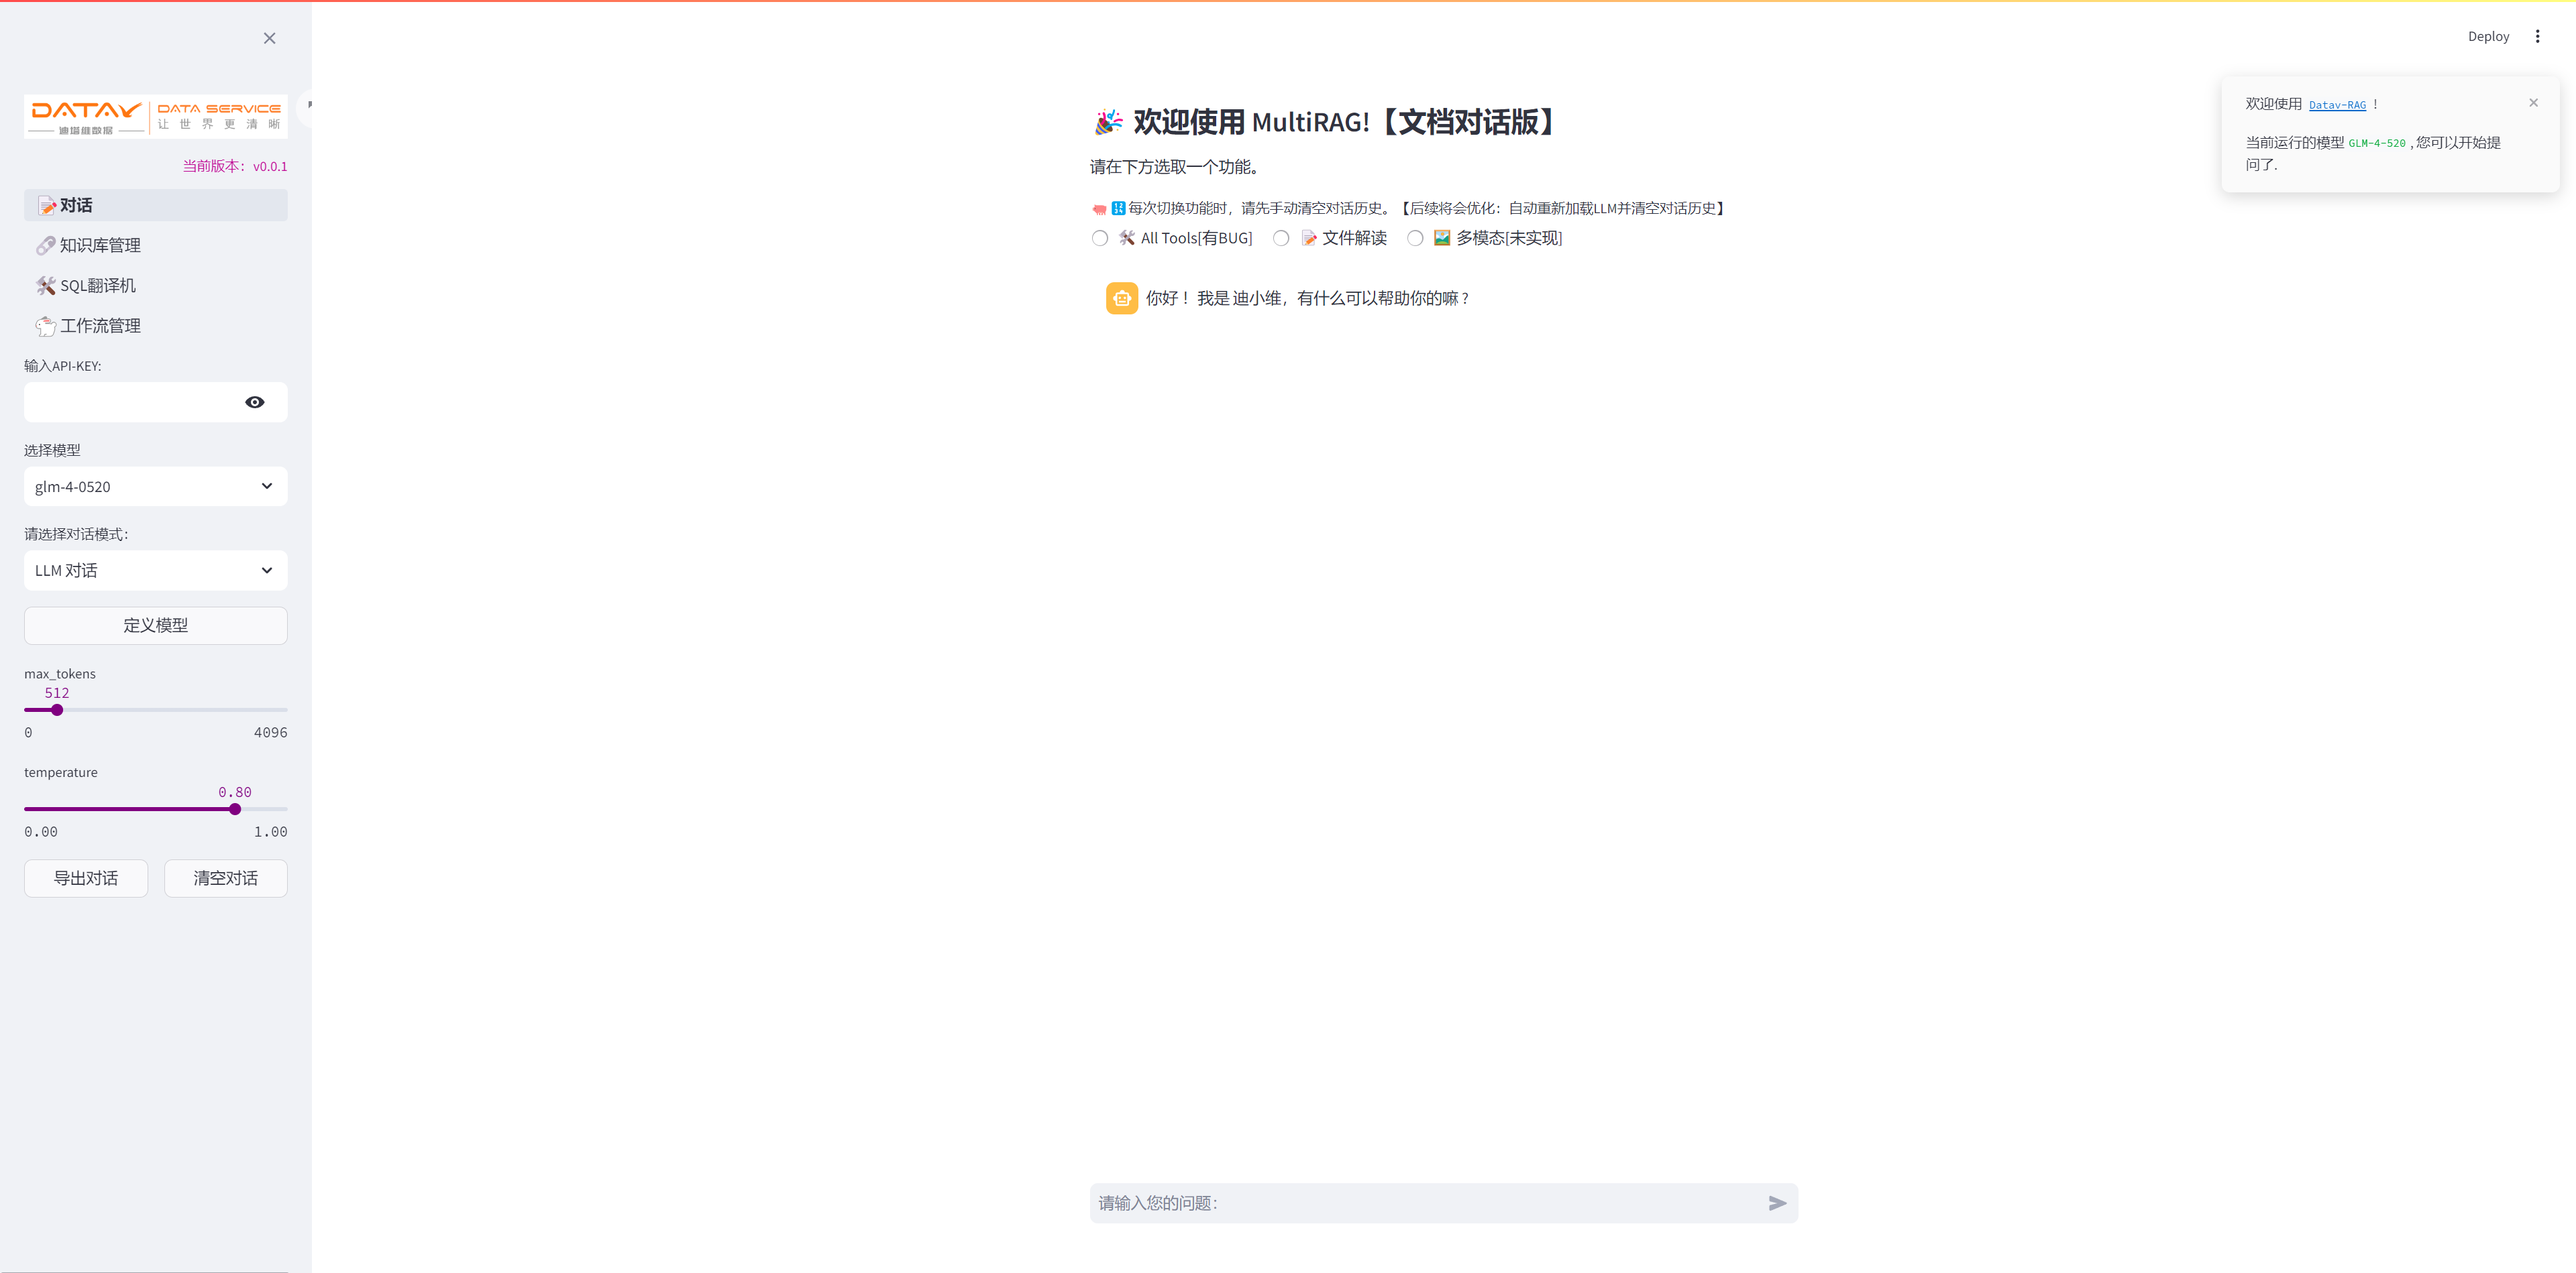
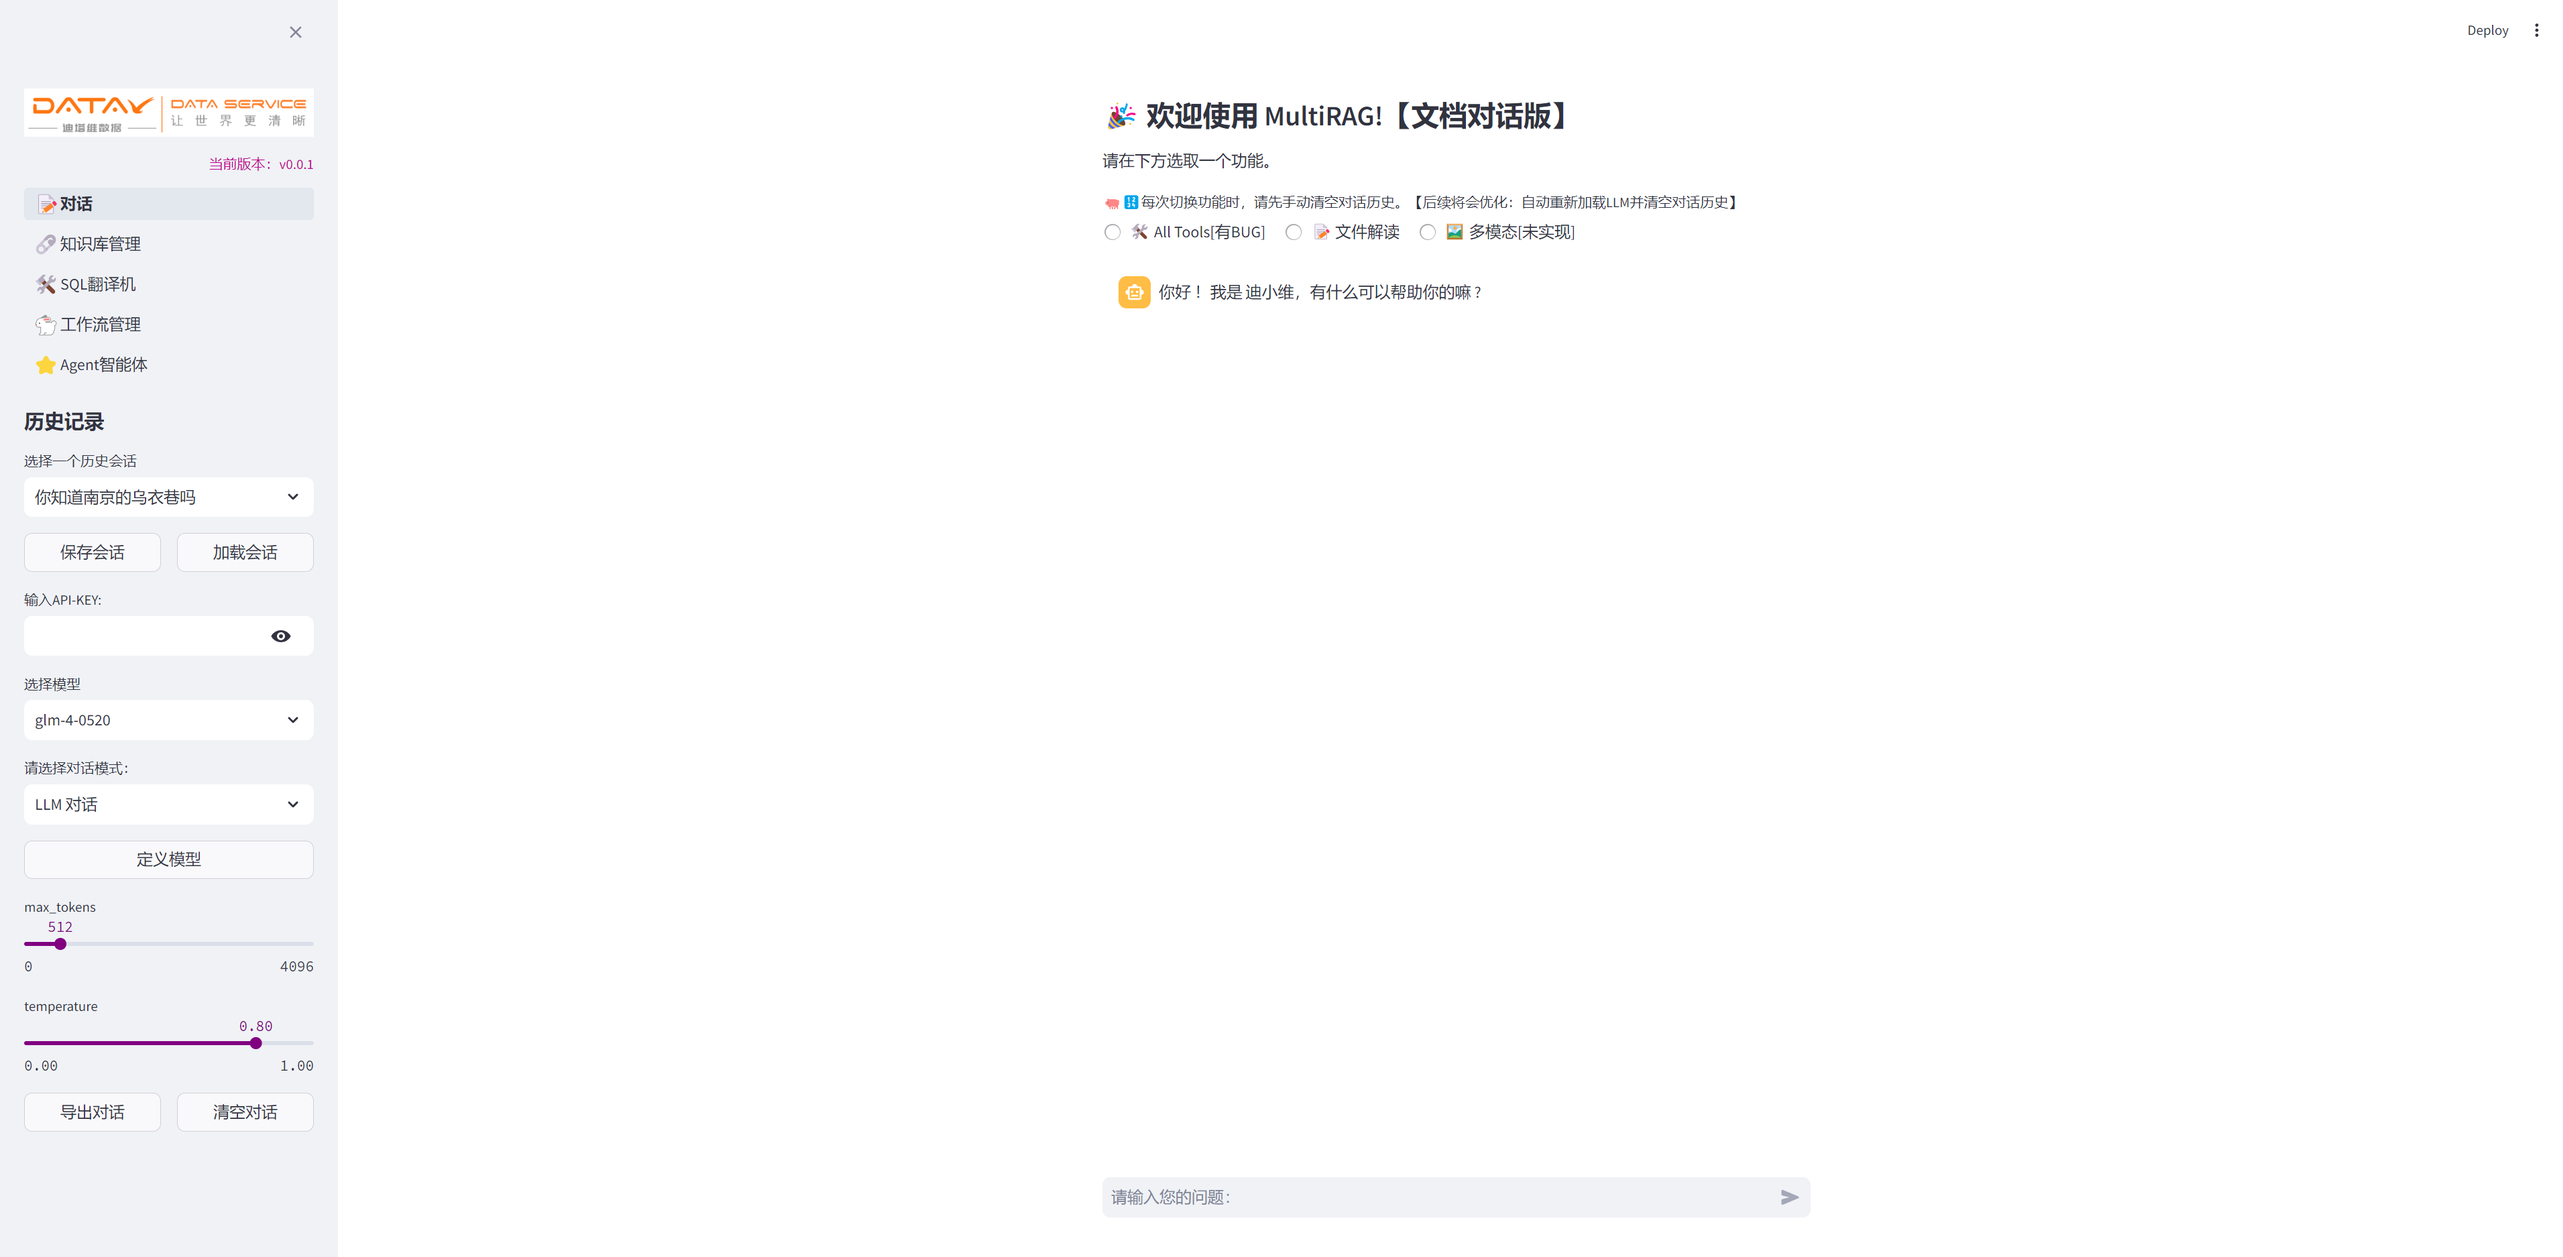
20240620-feat-新增历史会话功能

diff --git a/app.py b/app.py
@@ -41,10 +41,6 @@ class Mode(str, Enum):
 #   st.stop()
 # st.success('Thank you for inputting a name.')
 default_model = 'GLM-4-520'
-st.toast(
-    f"欢迎使用 [`Datav-RAG`](https://dcs.dataonv.com/#/home) ! \n\n"
-    f"当前运行的模型`{default_model}`, 您可以开始提问了."
-)
 
 HELP = """
 ### 🎉 欢迎使用 MultiRAG!【文档对话版】
@@ -63,6 +59,43 @@ page = st.radio(
     # on_change=page_changed,
 )
 # exit()
+
+# Function to save chat history
+# Function to save chat history
+def save_chat_history(history, custom_name=None, user_id='admin', file_path=None, rename=False):
+    first_user_message = history[1]["content"] if len(history) > 1 and history[1]["role"] == "user" else "session"
+    sanitized_message = "".join([c if c.isalnum() else " " for c in first_user_message])
+    truncated_message = sanitized_message[:10].strip()
+    if custom_name:
+        sanitized_custom_name = "".join([c if c.isalnum() else " " for c in custom_name])
+        truncated_message = sanitized_custom_name[:10].strip()
+    timestamp = datetime.datetime.now().strftime("%Y%m%d%H%M%S")
+    if file_path and rename:
+        new_file_name = f"{os.path.dirname(file_path)}/{timestamp}-{truncated_message}.json"
+        os.rename(file_path, new_file_name)
+    else:
+        new_file_name = f"./workspace/{user_id}/{timestamp}-{truncated_message}.json"
+    os.makedirs(os.path.dirname(new_file_name), exist_ok=True)
+    with open(new_file_name, 'w', encoding='utf-8') as f:
+        json.dump(history, f, ensure_ascii=False, indent=4)
+
+# Function to load chat history
+def load_chat_history(user_id='admin'):
+    history_dir = f"./workspace/{user_id}"
+    if not os.path.exists(history_dir):
+        os.makedirs(history_dir)
+    history_files = [f for f in os.listdir(history_dir) if f.endswith('.json')]
+    history_files.sort(key=lambda x: x.split('-')[0], reverse=True)  # Sort by timestamp in descending order
+    return history_files
+
+# Function to display chat history
+def display_chat_history(file_name):
+    with open(file_name, 'r', encoding='utf-8') as f:
+        history = json.load(f)
+    for message in history:
+        with st.chat_message(message["role"]):
+            st.markdown(message["content"])
+    return history
 
 
 api_key = "7ae32940233e38153d5ebaf94844f3e2.gwrz4P0tH9IDijUv"  # 7ae32940233e38153d5ebaf94844f3e2.gwrz4P0tH9IDijUv
@@ -177,12 +210,62 @@ with st.sidebar:
     st.page_link("pages/sql_trans.py", label="SQL翻译机", icon="🛠", use_container_width=True)
     st.page_link("pages/work_flow.py", label="工作流管理", icon="🐇", use_container_width=True)
     st.page_link("pages/agent_serve.py", label="Agent智能体", icon="⭐", use_container_width=True)
+
+    st.header("历史记录")
+    history_files = load_chat_history()
+    display_files = [os.path.splitext(f)[0].split('-', 1)[1] for f in
+                     history_files]  # Remove timestamp and .json extension
+    selected_file = st.selectbox("选择一个历史会话", display_files)
+    selected_file_full_path = f"./workspace/admin/{history_files[display_files.index(selected_file)]}"
+
+    cols = st.columns(2)
+    save_btn = cols[0]
+    load_btn = cols[1]
+    # 保存会话按钮
+    if save_btn.button("保存会话", use_container_width=True):
+        st.session_state.show_save_input = True
+
+    if st.session_state.get("show_save_input", False):
+        custom_name = st.text_input("请输入会话名称（可选）:", key="custom_name")
+        if st.button("确认保存", key="confirm_save"):
+            if "from_history" in st.session_state and st.session_state.from_history:
+                # 从历史会话加载
+                save_chat_history(st.session_state.messages, custom_name, file_path=selected_file_full_path,
+                                  rename=bool(custom_name))
+            else:
+                # 新建会话
+                save_chat_history(st.session_state.messages, custom_name)
+            st.session_state.show_save_input = False
+            st.success('当前会话已成功保存！刷新网页后可查看记录')
+
+    if load_btn.button("加载会话", use_container_width=True):
+        st.success('当前会话已成功加载！')
+        st.session_state.messages = display_chat_history(selected_file_full_path)
+        st.session_state.from_history = True  # 标记为从历史会话加载
+
     api_token = st.text_input("输入API-KEY:", type="password")
     if api_token:
         st.session_state.api_token = api_token
         st.success("API Token 已经配置")
     model = st.selectbox("选择模型", ["glm-4-0520","glm-4-airx","glm-4-air","glm-4-flash", "glm-3-turbo", "gpt-3.5-turbo"])
     st.session_state.model = model
+
+       # 在应用的初始化部分或者适当的位置初始化上一次的model_name
+    if 'previous_model_name' not in st.session_state:
+        st.session_state.previous_model_name = None
+
+    # 获取当前model_name
+    model_name = st.session_state.model
+
+    # 检查model_name是否发生变化
+    if model_name != st.session_state.previous_model_name:
+        # 当model_name变化时，显示toast消息，并更新previous_model_name
+        st.toast(
+            f"欢迎使用 [`Datav-RAG`](https://dcs.dataonv.com/#/home) ! \n\n"
+            f"当前运行的模型`{model_name}`."
+        )
+        st.session_state.previous_model_name = model_name
+
 
 
     def on_mode_change():
@@ -324,8 +407,6 @@ if prompt := st.chat_input("请输入您的问题："):
     with st.chat_message("user"):
         st.markdown(processed_prompt)
 
-    # query_results = query_chroma(processed_prompt)
-    # if query_results:
         # 检查是否包含工具调用指令
     tool_call_match = re.search(r"调用工具：(\w+)", processed_prompt)
     if tool_call_match:
@@ -361,6 +442,16 @@ if prompt := st.chat_input("请输入您的问题："):
     # with st.chat_message("assistant"):
     #     response_container = st.empty()
     #     response_container.markdown(response_content)
+
+    # Save chat history only on session end or refresh
+#     st.session_state.save_history = True
+#
+#
+# def save_session_history():
+#     if 'save_history' in st.session_state and st.session_state.save_history:
+#         save_chat_history(st.session_state.messages)
+#         st.session_state.save_history = False
+
 
 code = """
 <style>

diff --git a/README.md b/README.md
@@ -51,7 +51,7 @@
 4. 运行项目：
     
     ```bash
-    streamlit run app.py
+    streamlit run main.py
     ```
     
 
